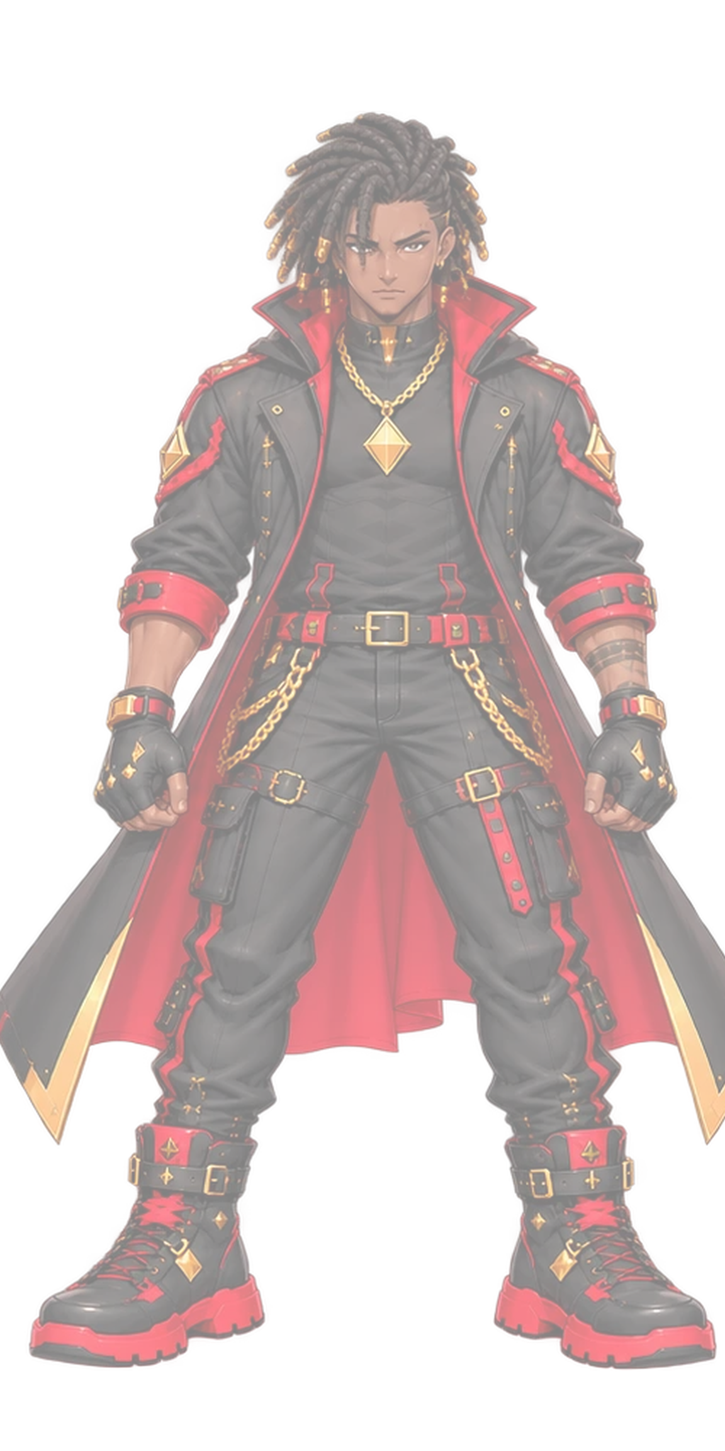
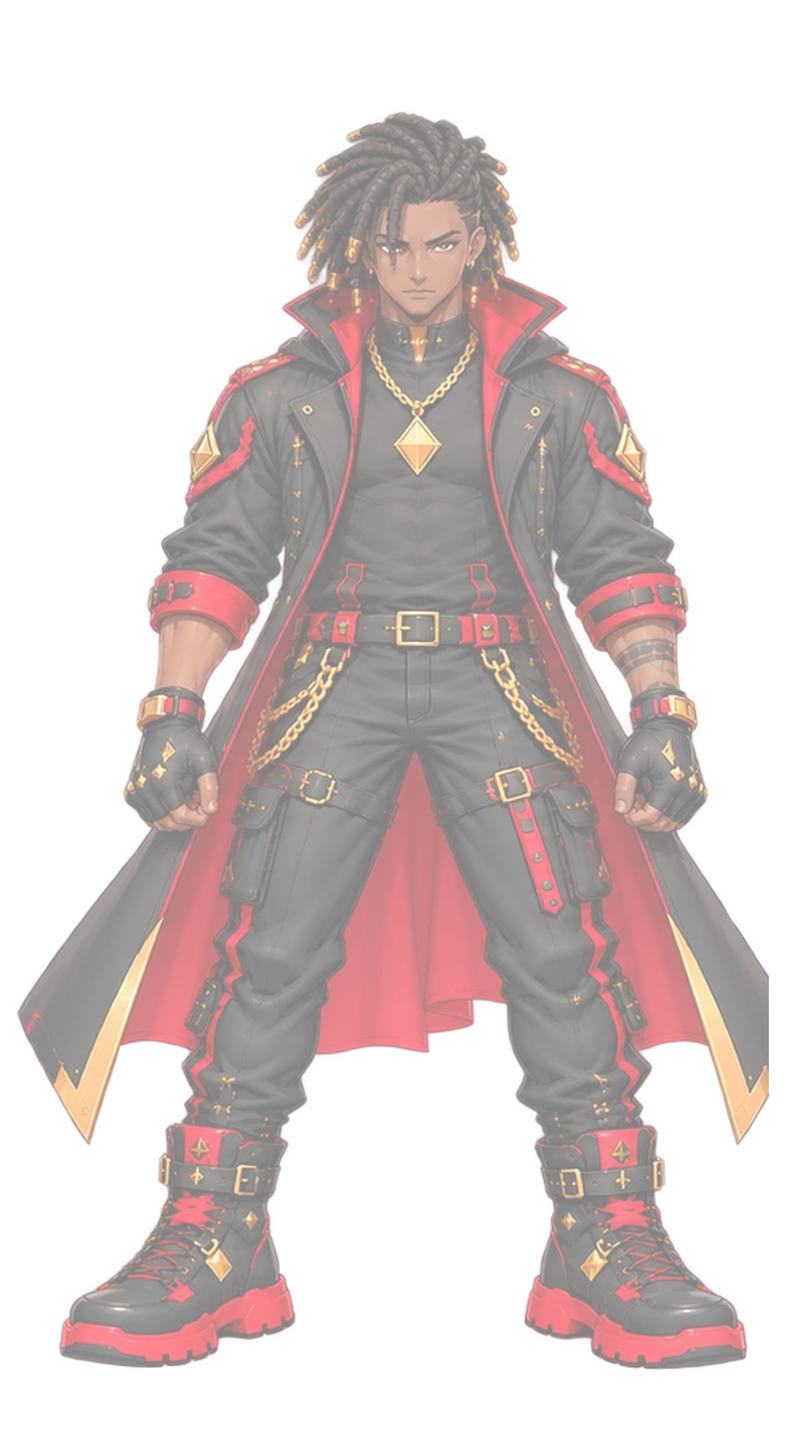
Echo V2 native canvas 1280x2304 (foot midpoint x=640): four-view painting templates, opt-in G2 profile with tests, finalize tool option, silhouette/margin report (default gates unchanged; no art; nothing wired)
Claude-Session: https://claude.ai/code/session_01NJ4pFBhCm3yWuxxGGAHNwJ

diff --git a/tools/make_echo_v2_front_template.py b/tools/make_echo_v2_front_template.py
@@ -1,24 +1,35 @@
 #!/usr/bin/env python3
-"""Krita/GIMP painting template for the native Echo V2 FRONT view (1152x2304). Not art. Writes to assets/characters/hero/frames_proposed/echo_v2_native/front/:
-  front_template_guides.png   transparent canvas with the G2 guide lines (head top y=176, soles y=2176, foot midpoint x=576, 24 px margin, figure box)
-  front_UNDERLAY_NOT_ART.png  the approved round-2 front reference resized (Lanczos, translation+scale only) to the 2000 px figure box at 50% opacity, for the artist to paint over on a layer BELOW their linework. It is an enlargement, so it is deliberately soft and carries the reference's known defects.
-usage: tools/make_echo_v2_front_template.py"""
-import os
+"""Krita/GIMP painting templates for the four native Echo V2 turnaround views at the corrected master canvas 1280x2304 (owner decision: figure centre and foot midpoint x=640). Not art.
+Writes to assets/characters/hero/frames_proposed/echo_v2_native/<view>/ for front, right, back, left:
+  <view>_template_guides.png    transparent canvas with the guide lines (head top y=176, soles y=2176, foot midpoint x=640, 24 px margin box)
+  <view>_UNDERLAY_NOT_ART.png   the approved round-2 reference resized (Lanczos; scale and translation only) so the figure is 2000 px tall with its planted-foot midpoint on x=640, at 50% opacity,
+                                for painting over on a layer BELOW the linework. It is an enlargement: soft, and it carries the reference's defects (clipped edges, eye colour, missing front ponytail).
+Prints the silhouette extents after placement so clipping/margin problems are visible. usage: tools/make_echo_v2_front_template.py"""
+import json, os
+import numpy as np
 from PIL import Image, ImageDraw
 REPO = os.path.normpath(os.path.join(os.path.dirname(os.path.abspath(__file__)), ".."))
-SRC = os.path.join(REPO, "assets/approved_anime/review/echo_v2_review/round2_consistency_pass/echo_v2_r2_front_530x887_REVIEW_ONLY.webp")
-OUT = os.path.join(REPO, "assets/characters/hero/frames_proposed/echo_v2_native/front")
-W, H, FIG, TOP, BASE, MID, MARGIN = 1152, 2304, 2000, 176, 2176, 576, 24
-def main():
-    os.makedirs(OUT, exist_ok=True)
+R = os.path.join(REPO, "assets/approved_anime/review/echo_v2_review/round2_consistency_pass")
+VIEWS = {"front": "echo_v2_r2_front_530x887_REVIEW_ONLY.webp", "right": "echo_v2_r2_right_facing_360x887_REVIEW_ONLY.png", "back": "echo_v2_r2_back_450x887_REVIEW_ONLY.png", "left": "echo_v2_r2_left_facing_434x887_REVIEW_ONLY.png"}
+W, H, FIG, TOP, BASE, MID, MARGIN = 1280, 2304, 2000, 176, 2176, 640, 24
+BASE_OUT = os.path.join(REPO, "assets/characters/hero/frames_proposed/echo_v2_native")
+def guides():
     g = Image.new("RGBA", (W, H), (0, 0, 0, 0)); d = ImageDraw.Draw(g)
-    for y, c, t in ((TOP, (230, 40, 40, 255), "head top y=176"), (BASE, (40, 120, 230, 255), "soles y=2176")): d.line([(0, y), (W, y)], fill=c, width=3); d.text((8, y - 14), t, fill=c)
-    d.line([(MID, 0), (MID, H)], fill=(40, 170, 90, 255), width=3); d.text((MID + 8, 8), "foot midpoint x=576", fill=(40, 170, 90, 255))
+    for y, c, t in ((TOP, (230, 40, 40, 255), f"head top y={TOP}"), (BASE, (40, 120, 230, 255), f"soles y={BASE}")): d.line([(0, y), (W, y)], fill=c, width=3); d.text((8, y - 14), t, fill=c)
+    d.line([(MID, 0), (MID, H)], fill=(40, 170, 90, 255), width=3); d.text((MID + 8, 8), f"figure centre and foot midpoint x={MID}", fill=(40, 170, 90, 255))
     d.rectangle([MARGIN, MARGIN, W - MARGIN, H - MARGIN], outline=(160, 160, 160, 255), width=2); d.text((MARGIN + 6, MARGIN + 4), "24 px margin: nothing may touch or cross", fill=(120, 120, 120, 255))
-    g.save(os.path.join(OUT, "front_template_guides.png"))
-    im = Image.open(SRC).convert("RGBA"); box = im.getchannel("A").point(lambda v: 255 if v > 24 else 0).getbbox(); im = im.crop(box)
-    k = FIG / im.height; im = im.resize((round(im.width * k), FIG), Image.LANCZOS)
-    u = Image.new("RGBA", (W, H), (0, 0, 0, 0)); u.alpha_composite(im, (MID - im.width // 2, TOP))
-    u.putalpha(u.getchannel("A").point(lambda v: v // 2)); u.save(os.path.join(OUT, "front_UNDERLAY_NOT_ART.png"))
-    print("underlay figure", im.size, "left/right margin", MID - im.width // 2, W - (MID - im.width // 2 + im.width))
+    return g
+def main():
+    report = {}
+    for view, name in VIEWS.items():
+        out = os.path.join(BASE_OUT, view); os.makedirs(out, exist_ok=True); guides().save(os.path.join(out, f"{view}_template_guides.png"))
+        im = Image.open(os.path.join(R, name)).convert("RGBA"); a = np.array(im.getchannel("A")); ys, xs = np.nonzero(a > 24); box = (xs.min(), ys.min(), xs.max() + 1, ys.max() + 1)
+        touches = [s for s, c in (("left", a[:, 0]), ("right", a[:, -1]), ("top", a[0, :]), ("bottom", a[-1, :])) if (c > 24).any()]
+        im = im.crop(box); a = np.array(im.getchannel("A")); k = FIG / im.height; im = im.resize((round(im.width * k), FIG), Image.LANCZOS)
+        a2 = np.array(im.getchannel("A")); foot = np.nonzero(a2[-40:, :] > 24)[1]; foot_mid = (foot.min() + foot.max()) / 2.0   # same rule as tools/check_hero_turnaround.py
+        x0 = round(MID - foot_mid); u = Image.new("RGBA", (W, H), (0, 0, 0, 0)); u.alpha_composite(im, (x0, TOP)) if x0 >= 0 else u.alpha_composite(im.crop((-x0, 0, im.width, im.height)), (0, TOP))
+        u.putalpha(u.getchannel("A").point(lambda v: v // 2)); u.save(os.path.join(out, f"{view}_UNDERLAY_NOT_ART.png"))
+        left, right = x0, x0 + im.width; report[view] = dict(scaled_width=im.width, left=left, right=right, spare_left=left - MARGIN, spare_right=(W - MARGIN) - right, reference_edges_touched=touches)
+        print(f"{view}: figure {im.width}x{FIG}, x {left}..{right}, margin spare L {left - MARGIN:+d} R {(W - MARGIN) - right:+d}, reference touches canvas edge: {touches or 'no'}")
+    json.dump(report, open(os.path.join(BASE_OUT, "silhouette_report_1280.json"), "w"), indent=1)
 if __name__ == "__main__": main()

diff --git a/tools/test_check_hero_turnaround.py b/tools/test_check_hero_turnaround.py
@@ -4,12 +4,12 @@ import shutil, subprocess, sys, tempfile
 from pathlib import Path
 from PIL import Image, ImageDraw
 ROOT = Path(__file__).resolve().parent.parent
-def fig(offset=0, w=380):
-    im = Image.new("RGBA", (1152, 2304), (0, 0, 0, 0))
-    ImageDraw.Draw(im).rectangle([576 - w // 2 + offset, 176, 576 + w // 2 + offset, 2176], fill=(90, 70, 40, 255))
+def fig(offset=0, w=380, cw=1152):
+    im = Image.new("RGBA", (cw, 2304), (0, 0, 0, 0)); c = cw // 2
+    ImageDraw.Draw(im).rectangle([c - w // 2 + offset, 176, c + w // 2 + offset, 2176], fill=(90, 70, 40, 255))
     return im
-def run(d):
-    r = subprocess.run([sys.executable, str(ROOT / "tools/check_hero_turnaround.py"), "--dir", str(d)], capture_output=True, text=True)
+def run(d, *extra):
+    r = subprocess.run([sys.executable, str(ROOT / "tools/check_hero_turnaround.py"), "--dir", str(d), *extra], capture_output=True, text=True)
     return r.returncode, r.stdout
 def main():
     bad = 0
@@ -32,6 +32,28 @@ def main():
         rc, out = run(t); expect("23 px side margin is rejected", rc == 1 and "within 24px of the canvas edge" in out)
         fig().save(t / "hero_turnaround_front_native.png"); (t / "hero_face_detail_sheet.png").unlink()
         rc, out = run(t); expect("missing detail sheet is rejected", rc == 1 and "hero_face_detail_sheet" in out)
+    finally:
+        shutil.rmtree(t, ignore_errors=True)
+    # ---- the owner-approved 1280x2304 profile (opt-in; the default profile above is unchanged)
+    t = Path(tempfile.mkdtemp())
+    try:
+        P = ("--profile", "1280")
+        for i, v in enumerate(("front", "right", "back", "left")):
+            fig(offset=i * 3, w=380 + i * 10, cw=1280).save(t / f"hero_turnaround_{v}_native.png")
+        for s in ("hero_face_detail_sheet.png", "hero_costume_detail_sheet.png"):
+            Image.new("RGB", (2048, 1024), (20, 20, 20)).save(t / s)
+        rc, out = run(t, *P); expect("1280 profile: conformant 1280x2304 set passes", rc == 0)
+        rc, out = run(t); expect("default profile still rejects 1280-wide files (gate not loosened)", rc == 1 and "must be exactly 1152x2304" in out)
+        fig(cw=1152).save(t / "hero_turnaround_front_native.png")
+        rc, out = run(t, *P); expect("1280 profile rejects a 1152-wide file", rc == 1 and "must be exactly 1280x2304" in out)
+        fig(w=1230, cw=1280).save(t / "hero_turnaround_front_native.png")
+        rc, out = run(t, *P); expect("1280 profile: figure with exactly 24 px side margins passes (same geometry as the legacy 1102 px case)", rc == 0)
+        fig(w=1234, cw=1280).save(t / "hero_turnaround_front_native.png")
+        rc, out = run(t, *P); expect("1280 profile: figure with 23 px side margins is rejected", rc == 1 and "within 24px of the canvas edge" in out)
+        fig(offset=200, w=400, cw=1280).save(t / "hero_turnaround_front_native.png")
+        rc, out = run(t, *P); expect("1280 profile: feet 200 px off x=640 are rejected", rc == 1 and "foot" in out)
+        fig(offset=-64, w=400, cw=1280).save(t / "hero_turnaround_front_native.png")
+        rc, out = run(t, *P); expect("1280 profile: feet at x=576 (64 px off, inside the 90 px tolerance) still pass the foot check", "foot" not in out)
     finally:
         shutil.rmtree(t, ignore_errors=True)
     rc, out = run(ROOT / "assets/approved_anime/source/hero")

diff --git a/tools/test_finalize_native_matte.py b/tools/test_finalize_native_matte.py
@@ -1,0 +1,20 @@
+#!/usr/bin/env python3
+"""Self-test for tools/finalize_native_matte.py on synthetic blocks (temp dir; not art): default 1152 canvas unchanged, --width 1280 puts the foot midpoint on x=640, a wrong-height figure is refused."""
+import subprocess, sys, tempfile
+from pathlib import Path
+from PIL import Image, ImageDraw
+import numpy as np
+ROOT = Path(__file__).resolve().parent.parent; TOOL = str(ROOT / "tools/finalize_native_matte.py"); bad = 0
+def expect(label, c):
+    global bad; print(("PASS: " if c else "FAIL: ") + label); bad += 0 if c else 1
+def block(path, h=2000, w=500):
+    im = Image.new("RGBA", (w + 40, h + 40), (0, 0, 0, 0)); ImageDraw.Draw(im).rectangle([20, 20, 20 + w, 20 + h], fill=(80, 60, 40, 255)); im.save(path)
+with tempfile.TemporaryDirectory() as t:
+    t = Path(t); block(t / "in.png")
+    for width, mid in ((1152, 576), (1280, 640)):
+        args = [sys.executable, TOOL, str(t / "in.png"), str(t / "out.png")] + (["--width", "1280"] if width == 1280 else [])
+        r = subprocess.run(args, capture_output=True, text=True); im = Image.open(t / "out.png"); a = np.array(im.getchannel("A")); ys, xs = np.nonzero(a > 16)
+        expect(f"{width}: canvas {im.size}, sole bottom {ys.max() + 1}, foot midpoint {(xs.min() + xs.max()) / 2:.1f}", r.returncode == 0 and im.size == (width, 2304) and ys.max() + 1 == 2176 and abs((xs.min() + xs.max()) / 2 - mid) <= 1.0)
+    block(t / "small.png", h=900); r = subprocess.run([sys.executable, TOOL, str(t / "small.png"), str(t / "o2.png"), "--width", "1280"], capture_output=True, text=True)
+    expect("a smaller (non-native-height) image is refused, never scaled", r.returncode == 1 and "REFUSED" in r.stdout)
+print("RESULT:", "ALL PASS" if not bad else f"{bad} FAILED"); sys.exit(1 if bad else 0)

diff --git a/tools/check_hero_turnaround.py b/tools/check_hero_turnaround.py
@@ -9,10 +9,11 @@ import argparse
 from pathlib import Path
 from PIL import Image, ImageOps
 
-W, H = 1152, 2304
+W, H = 1152, 2304   # DEFAULT profile "legacy"; `--profile 1280` selects the owner-approved wider master (1280x2304, foot midpoint x=640). Every other limit is identical in both profiles.
+PROFILES = {"legacy": (1152, 576), "1280": (1280, 640)}   # canvas width, planted-foot midpoint x
 FIG_H, HEAD_TOP, BASELINE = 2000, 176, 2176
 TOL_TOP, TOL_BASE, MARGIN = 12, 8, 24  # side/top margin 48 -> 24 px: owner-approved (front at 2000 px is ~1095 px wide on a 1152 canvas)
-FOOT_MID_X, FOOT_TOL = 576, 90
+FOOT_MID_X, FOOT_TOL = 576, 90   # set from the profile in main()
 OPAQUE_MIN, SOFT_MAX = 0.90, 0.08
 VIEWS = ("front", "right", "back", "left")
 SHEETS = ("hero_face_detail_sheet.png", "hero_costume_detail_sheet.png")
@@ -71,8 +72,9 @@ def check_view(path: Path, view: str):
 
 
 def main() -> int:
-    ap = argparse.ArgumentParser(); ap.add_argument("--dir", type=Path, default=Path("assets/approved_anime/source/hero"))
-    d = ap.parse_args().dir
+    global W, FOOT_MID_X
+    ap = argparse.ArgumentParser(); ap.add_argument("--dir", type=Path, default=Path("assets/approved_anime/source/hero")); ap.add_argument("--profile", choices=sorted(PROFILES), default="legacy")
+    args = ap.parse_args(); d = args.dir; W, FOOT_MID_X = PROFILES[args.profile]
     problems, loaded = [], {}
     for v in VIEWS:
         iss, res = check_view(d / f"hero_turnaround_{v}_native.png", v)

diff --git a/tools/finalize_native_matte.py b/tools/finalize_native_matte.py
@@ -7,9 +7,10 @@ or that would clip, so a smaller image can never be 'finished' into native art. 
 import argparse, sys
 import numpy as np
 from PIL import Image
-W, H, BASE, FIG = 1152, 2304, 2176, 2000
+W, H, BASE, FIG = 1152, 2304, 2176, 2000   # DEFAULT unchanged; `--width 1280` selects the owner-approved wider master (foot midpoint x=640)
 def main():
-    ap = argparse.ArgumentParser(); ap.add_argument("inp"); ap.add_argument("out"); ap.add_argument("--clamp", type=int, default=250); a = ap.parse_args()
+    ap = argparse.ArgumentParser(); ap.add_argument("inp"); ap.add_argument("out"); ap.add_argument("--clamp", type=int, default=250); ap.add_argument("--width", type=int, choices=(1152, 1280), default=1152); a = ap.parse_args()
+    global W; W = a.width
     im = Image.open(a.inp).convert("RGBA"); arr = np.array(im); al = arr[:, :, 3]
     bb = Image.fromarray(((al > 16) * 255).astype("uint8")).getbbox()
     if bb is None: print("REFUSED: empty image"); return 1

diff --git a/docs/overnight/ECHO_V2_G2_1280_AUDIT.md b/docs/overnight/ECHO_V2_G2_1280_AUDIT.md
@@ -1,0 +1,30 @@
+# G2 validator audit for the 1280x2304 native master (owner decision, Option 1)
+
+Nothing in the production gates was weakened or bypassed: the **default** profile of `tools/check_hero_turnaround.py` is byte-for-byte the old behaviour (1152x2304, foot midpoint 576), the G4 validator `tools/validate_approved_art.py` (576x1152) is untouched, and the new profile is opt-in until you separately approve making it the default.
+
+## Assumptions found in the tools and docs
+| where | assumption | action |
+|---|---|---|
+| `tools/check_hero_turnaround.py` | `W,H = 1152,2304`; `FOOT_MID_X = 576`; comment "front at 2000 px is ~1095 px wide on a 1152 canvas" | added `--profile {legacy,1280}`; legacy = (1152, 576) stays the default; 1280 = (1280, 640). Every other limit is identical: figure 2000 (+/-30), head top 176 (+/-12), soles 2176 (+/-8), foot tolerance +/-90, margin 24, opaque >= 90%, soft <= 8%, heights within 20 px, left not a mirror, detail sheets >= 2048, no #00FF00 |
+| `tools/test_check_hero_turnaround.py` | all fixtures are 1152 wide | existing 7 cases unchanged and passing; 7 new cases for the 1280 profile (conformant set passes; default profile still rejects 1280-wide files; 1280 profile rejects 1152-wide files; figure with exactly 24 px margins passes, 23 px rejected; feet 200 px off x=640 rejected; feet at x=576, 64 px off, still inside the 90 px tolerance) |
+| `tools/finalize_native_matte.py` | places figures on 1152x2304 at foot midpoint 576 | added `--width {1152,1280}` (default 1152 unchanged); new `tools/test_finalize_native_matte.py` (1152 and 1280 placement, and a wrong-height image is refused, never scaled) |
+| `tools/validate_approved_art.py` | G4 frames 576x1152, anchor x=288 | unchanged; the proposed game animation contract is separate (`ECHO_V2_G4_GAME_CONTRACT.md`) |
+| `HERO_PRODUCTION_DELIVERABLES_CHECKLIST.md`, `ART_BRIEFS.md`, `ARTWORK_VALIDATION_CHECKLIST.md`, `PRODUCTION_ASSET_MANIFEST.md`, `asset_manifest.json`, `HERO_DESIGN_LOCK_AND_PRODUCTION_SPEC.md`, `HERO_RIGGING_PLAN.md`, `INTEGRATION_ADAPTER.md`, `HERO_TURNAROUND_REVIEW.md` | still say 1152 | a canvas-update banner was added to the deliverables checklist; the others are historical/superseded for Echo and were not edited. Revising `asset_manifest.json` and the manifest document is part of the approval that makes 1280 the default |
+| `docs/overnight/ECHO_V2_NATIVE_SPEC.md`, `..._PRODUCTION_PACKAGE.md`, `..._G4_GAME_CONTRACT.md` | said 1152 / x=576 | updated to 1280 / x=640 |
+
+To make the new profile the default later (needs your approval): change the `--profile` default to `1280` in `check_hero_turnaround.py`, update the legacy tests to the 1280 geometry, update `asset_manifest.json`, and set `finalize_native_matte.py --width` default to 1280.
+
+## Silhouette and margin check on the four approved references, at the new geometry
+`python3 tools/make_echo_v2_front_template.py` scales each round-2 reference to the 2000 px figure and puts its planted-foot midpoint on x=640 (usable width 24..1256 = 1232 px). Result (also in `assets/characters/hero/frames_proposed/echo_v2_native/silhouette_report_1280.json`):
+| view | figure width at 2000 px | x range | spare to the 24 px margin (left / right) | reference clipped at |
+|---|---|---|---|---|
+| front | 1194 | 27..1221 | **+3 / +35** | right edge |
+| right-facing | 831 | 151..982 | +127 / +274 | left and right |
+| back | 1044 | 102..1146 | +78 / +110 | left and right |
+| left-facing | 990 | 116..1106 | +92 / +150 | left |
+
+## Remaining clipping and margin problems
+1. **Front: the left margin has only 3 px to spare and the reference hem is cut off at its right edge** (88 solid pixels in the last column), so the true right flare is wider than 1221 and only 35 px of room remain on the right. If the painted hem or flare extends more than about 35 px beyond the reference (and nothing may move left), the front fails the 24 px margin. Moving the figure right is limited by the same margin, and the 90 px foot tolerance does not help because the margin binds. This is the tight one. If it is a problem, the coat silhouette must not be narrowed (it is locked), so the remaining options are a slightly wider canvas (for example 1344) or a smaller figure height; it only needs deciding once the painter reports the real flare width.
+2. **Back, right, left:** the references touch the canvas edge (coat or hem clipped), so their true widths are also unknown; all have more spare room than the front, but the missing clipped parts have to be painted in and re-measured.
+3. The foot midpoint rule can sit off the figure's visual centre for asymmetric stances (the front's feet are left of the silhouette centre); it is a G2 rule and was not changed.
+The underlays are enlargements for tracing placement only; none of this is native art, and no validator was run on art.

diff --git a/assets/characters/hero/frames_proposed/echo_v2_native/front/FRONT_VIEW_BRIEF.md b/assets/characters/hero/frames_proposed/echo_v2_native/front/FRONT_VIEW_BRIEF.md
@@ -1,10 +1,13 @@
 # Echo V2 native FRONT view: painting brief (no art exists yet)
 
-Status: NOT PRODUCED. A faithful native 1152x2304 front view cannot be made by enlarging the 530x887 reference (the pixels do not exist; the reference also has a clipped hem, soft edges, an invisible ponytail and a front eye reading wrong), and I cannot paint it. This folder holds the template for the person who will. References are ONLY the approved round-2 views and `ECHO_V2_DESIGN_AUTHORITY.md`. The navy-and-gold image the owner rejected is not a reference (see `docs/overnight/ECHO_V2_REJECTED_REFERENCES.md`).
+Status: NOT PRODUCED. A faithful native 1280x2304 front view cannot be made by enlarging the 530x887 reference (the pixels do not exist; the reference also has a clipped hem, soft edges, an invisible ponytail and a front eye reading wrong), and I cannot paint it. This folder holds the template for the person who will. References are ONLY the approved round-2 views and `ECHO_V2_DESIGN_AUTHORITY.md`. The navy-and-gold image the owner rejected is not a reference (see `docs/overnight/ECHO_V2_REJECTED_REFERENCES.md`).
 
-Files: `front_template_guides.png` (guide lines: head top y=176, soles y=2176, foot midpoint x=576, 24 px margin) and `front_UNDERLAY_NOT_ART.png` (the approved front reference scaled to the 2000 px figure box at 50% opacity, for painting over on a layer below the linework). Rebuild: `python3 tools/make_echo_v2_front_template.py`.
+Files: `front_template_guides.png` (guide lines: head top y=176, soles y=2176, foot midpoint x=640, 24 px margin) and `front_UNDERLAY_NOT_ART.png` (the approved front reference scaled to the 2000 px figure box at 50% opacity, for painting over on a layer below the linework). Rebuild all four views' templates: `python3 tools/make_echo_v2_front_template.py` (the same brief applies to the right, back and left folders; each view has its own guides and underlay).
 
-## Width problem to decide before painting
+## Canvas (decided: 1280x2304, figure centre and foot midpoint x=640)
+Owner Option 1 applied: all four views use a 1280x2304 canvas. See `../silhouette_report_1280.json` and `docs/overnight/ECHO_V2_G2_1280_AUDIT.md` for the remaining margin spare per view. Superseded text kept below for history.
+
+## (superseded) Width problem
 Scaled to the required 2000 px height, the approved front figure is about **1194 px wide** (the coat flare), wider than the 1152 px canvas and beyond the 24 px margin limit (1104 px usable), and the reference hem is already clipped on the right, so the true width is larger. Options (owner decision; I changed no gate): (a) widen the front (ideally all four views) canvas, for example to 1280x2304, and update the G2 constants; (b) keep 1152 and paint all four views at a smaller figure height of about 1840 px, relaxing the 2000 +/-30 rule; (c) draw a narrower coat flare (a design adjustment that needs your approval). Until you choose, no front view can pass G2 as specified.
 
 ## What the front view must contain (from the locked design)

diff --git a/docs/overnight/ECHO_V2_NATIVE_PRODUCTION_PACKAGE.md b/docs/overnight/ECHO_V2_NATIVE_PRODUCTION_PACKAGE.md
@@ -1,6 +1,6 @@
 # Echo V2 native art: production checklist and reference package
 
-Decisions applied: warm brown eyes in every view; the approved gold-banded ponytail kept consistent; scar position and bead count NOT invented (flagged); native 1152x2304 views; premium anime art direction (no pixel art); current in-game Echo kept until the complete V2 replacement is approved. Specification: `ECHO_V2_NATIVE_SPEC.md`; audit: `ECHO_V2_NATIVE_AUDIT.md`; animation contract: `ECHO_V2_G4_GAME_CONTRACT.md`. Nothing here is wired into the game, no image service is purchased, and no gate is bypassed.
+Decisions applied: warm brown eyes in every view; the approved gold-banded ponytail kept consistent; scar position and bead count NOT invented (flagged); native 1280x2304 views; premium anime art direction (no pixel art); current in-game Echo kept until the complete V2 replacement is approved. Specification: `ECHO_V2_NATIVE_SPEC.md`; audit: `ECHO_V2_NATIVE_AUDIT.md`; animation contract: `ECHO_V2_G4_GAME_CONTRACT.md`. Nothing here is wired into the game, no image service is purchased, and no gate is bypassed.
 
 ## 1. Reference package (give these to the artist or generator)
 | file | role |
@@ -22,7 +22,7 @@ The owner can mark answers directly on `confirmation_sheet.png`.
 
 ## 3. Production checklist (in order; each line is a gate)
 1. [ ] Owner answers: scar (yes/no and exact description), canonical bead count and placement.
-2. [ ] Four native 1152x2304 views, one image per view, same scale (figure 2000 px, head top y=176, soles y=2176, foot midpoint x=576), 24 px margin, transparent background; right view faces screen-right; left view genuinely drawn.
+2. [ ] Four native 1280x2304 views, one image per view, same scale (figure 2000 px, head top y=176, soles y=2176, foot midpoint x=640), 24 px margin, transparent background; right view faces screen-right; left view genuinely drawn.
 3. [ ] Every view: warm brown eyes with amber highlights; gold-banded ponytail identifiable in the front too; left-forearm band on every view where that arm shows, absent on the right forearm; no scar or beads beyond what the owner specified.
 4. [ ] Face detail sheet and costume detail sheet (long side at least 2048); `PROVENANCE.md` (tool, date, prompts, seeds, edits; `source: native` or disclosed `assisted-native`).
 5. [ ] `python3 tools/check_hero_turnaround.py` STRUCTURAL PASS on the genuine files (never on references), then the owner's visual approval of the four views (G2).

diff --git a/docs/overnight/ECHO_V2_G4_GAME_CONTRACT.md b/docs/overnight/ECHO_V2_G4_GAME_CONTRACT.md
@@ -3,7 +3,7 @@
 The old G4 contract (`tools/validate_approved_art.py`, `HERO_PRODUCTION_DELIVERABLES_CHECKLIST.md`) assumes four directions, 576x1152 frames, idle 2 and walk 6 per view. The Godot game does not work that way, so the proposed requirement is rewritten from the code. The old validator and the G2 gate are **unchanged**; this contract is a proposal that takes effect only when you approve it, and the new checker (`tools/check_echo_v2_frames.py`) is separate from the existing gates.
 
 ## How the game uses character art (read from `scripts/combat/fighter.gd`, `battle.gd`, `explore.gd`)
-- **One facing.** Art is drawn facing RIGHT; the engine flips horizontally when the character faces left (`sprite.flip_h = facing < 0`). No front, back, three-quarter or left frames are used in play. The four native 1152x2304 views are the master from which the side frames are made; the left view is design reference for asymmetric details.
+- **One facing.** Art is drawn facing RIGHT; the engine flips horizontally when the character faces left (`sprite.flip_h = facing < 0`). No front, back, three-quarter or left frames are used in play. The four native 1280x2304 views are the master from which the side frames are made; the left view is design reference for asymmetric details.
 - **Anchor and scale.** Frames are bottom-centre anchored (feet on the bottom row, body centred; the node origin is the canvas bottom-centre). Scale is `world_height / idle canvas height x node scale 1.2`, taken from the idle frame only, so every state that shares the idle canvas scales identically. A different canvas (the 480x216 run) needs the approved per-animation scale-and-offset loader change, which is not implemented and is not part of this contract's delivery.
 - **Premium anime rendering, not pixel art.** Frames are downsampled from the native master with one fixed recipe (smooth, anti-aliased, same palette and outline weight in every state). Nothing is pixel-snapped or posterised.
 - **Exploration** (`explore.gd`): idle is a held frame 0 plus a 1% breath; walk plays at gait-scaled speed; walk <-> idle and turns dissolve over 0.12 s; reduced motion disables the breath and dissolves. The Warden chamber currently plays "walk" at full speed (a future switch to "run" there is a code change, separately approved).

diff --git a/docs/overnight/ECHO_V2_NATIVE_SPEC.md b/docs/overnight/ECHO_V2_NATIVE_SPEC.md
@@ -8,8 +8,8 @@ Preparation only. Nothing here changes the playable game, the current QA build, 
 | item | requirement |
 |---|---|
 | Files | `assets/approved_anime/source/hero/hero_turnaround_{front,right,back,left}_native.png`, plus `hero_face_detail_sheet.png`, `hero_costume_detail_sheet.png`, `PROVENANCE.md` (optional matte-green copies) |
-| Canvas | exactly **1152 x 2304**, PNG RGBA, straight alpha, rendered or painted natively (never enlarged from a smaller image) |
-| Figure | **2000 px** tall (+/-30), head top y = **176** (+/-12), planted soles y = **2176** (+/-8), planted-foot midpoint x = **576** (+/-90) |
+| Canvas | exactly **1280 x 2304** (owner decision: widened from 1152 because the front coat flare is about 1194 px wide at the 2000 px figure height; figure centre and foot midpoint x=640) , PNG RGBA, straight alpha, rendered or painted natively (never enlarged from a smaller image) |
+| Figure | **2000 px** tall (+/-30), head top y = **176** (+/-12), planted soles y = **2176** (+/-8), planted-foot midpoint x = **640** (+/-90) |
 | Margin | at least **24 px** transparent on every side (the coat flare, hem, ponytail and locs must not be clipped) |
 | Alpha | corners transparent; at least **90%** of silhouette pixels fully opaque; at most **8%** soft pixels; no #00FF00 key colour, halo, fringe, baked shadow or reflection |
 | Views | front, right (faces screen-right), back, left (genuinely drawn, not a mirror of right); figure heights within 20 px of each other; identical scale, costume, skin tone, eye colour, hair and ponytail length across views |

diff --git a/docs/overnight/ECHO_V2_NATIVE_AUDIT.md b/docs/overnight/ECHO_V2_NATIVE_AUDIT.md
@@ -1,5 +1,7 @@
 # Echo V2 reference audit (round-2 views) against the G2/G4 requirements
 
+> **Update:** the native master canvas is now **1280x2304** (owner decision, foot midpoint x=640). Figures below that say 1152 and 576 describe the checker as audited at the time; see `ECHO_V2_G2_1280_AUDIT.md` for the revised constants and tests.
+
 Read: `ECHO_V2_DESIGN_AUTHORITY.md`, `ECHO_V2_FRONT_PRODUCTION_READINESS_REPORT.md`, `HERO_PRODUCTION_DELIVERABLES_CHECKLIST.md`, `ARTWORK_VALIDATION_CHECKLIST.md`, `tools/check_hero_turnaround.py` (G2 constants), `tools/validate_approved_art.py` (G4). Views audited: `assets/approved_anime/review/echo_v2_review/round2_consistency_pass/` front 530x887, back 450x887, left-facing 434x887, right-facing 360x887. Visual notes come from crops up to 8x of these 887 px sources, so fine detail is at the limit of what the pixels hold; where I could not see something I say so. Nothing was generated, enlarged or edited, and no paid service was used.
 
 ## 1. Structural result against G2 (`tools/check_hero_turnaround.py`, run on temporary copies renamed as the native views)

diff --git a/docs/demo25d/phase2/HERO_PRODUCTION_DELIVERABLES_CHECKLIST.md b/docs/demo25d/phase2/HERO_PRODUCTION_DELIVERABLES_CHECKLIST.md
@@ -1,3 +1,5 @@
+> **CANVAS UPDATE (owner decision):** the G2 native turnaround canvas is **1280 x 2304** with the foot midpoint at x=640 (figure 2000 px, head top y=176, soles y=2176, 24 px margin unchanged). Read every "1152" in this document as 1280 and "x=576" as x=640. `tools/check_hero_turnaround.py --profile 1280` checks it; the default profile and the G4 contract below are unchanged until separately approved. See `docs/overnight/ECHO_V2_G2_1280_AUDIT.md`.
+
 # Hero production deliverables checklist (authoritative design reference: **Echo V2**, `assets/approved_anime/review/echo_v2_review/` — REVIEW ONLY; see `ECHO_V2_DESIGN_AUTHORITY.md`)
 
 > **DESIGN AUTHORITY UPDATE:** Echo V2 is now the official protagonist design (`ECHO_V2_DESIGN_AUTHORITY.md`). Everything in this document describing Hero pack v2, the preview candidate, reference 01 or the white-twist Echo is **SUPERSEDED FOR ECHO** and kept only as a historical record.
